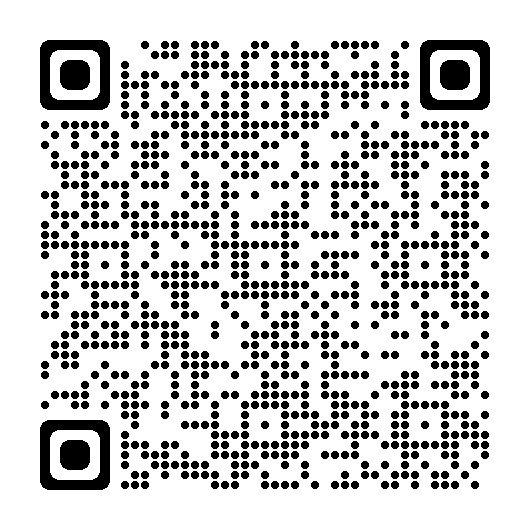
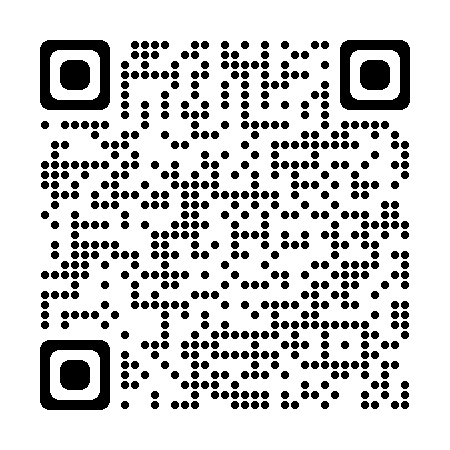
added qrcode.

diff --git a/frontend/header-style.css b/frontend/header-style.css
@@ -69,7 +69,7 @@
 
 /* Update header text based on sorting property */
 vaadin-grid-sorter {
-    font-size: 30px;
+    font-size: 40px;
 }
 
 vaadin-grid-sorter[direction = "asc"] {

diff --git a/frontend/vaadin-grid.css b/frontend/vaadin-grid.css
@@ -14,7 +14,7 @@
 [part~="cell"] {
     background-color: var(--one);
     color: var(--five);
-    font-size: x-large;
+    font-size: xx-large;
 }
 
 [part~="header-cell"] {

diff --git a/src/main/java/com/daniel/data_mapping/HomeView.java b/src/main/java/com/daniel/data_mapping/HomeView.java
@@ -52,9 +52,9 @@ public class HomeView extends FlexLayout {
 
     String getTabInfo(String title){
         switch (title){
-            case "Topic": return "Relationship between Starting salary of College Majors vs Unemployment rate of College Majors.";
-            case "Hypothesis": return "The higher the starting salary of a college major is, the higher the unemployment. ";
-            case "Poll": return "<img class=\"qrCode\" src=\"https://raw.githubusercontent.com/kingDaniel2004/12th_MapDataAnalysis/bafb0400b2ba939ca45f4dc476577e26373a3ea9/res/code.png\" alt=\"QRCode\">";
+            case "Topic": return "Starting Salary of College Majors vs Unemployment Rate of College Majors.";
+            case "Hypothesis": return "The higher the starting salary of a college major is, the higher the unemployment rate.";
+            case "Poll": return "<img class=\"qrCode\" src=\"https://github.com/kingDaniel2004/12th_MapDataAnalysis/blob/e1980c106e81a0161c2236b65b22417467e43d69/res/code.png\" alt=\"QRCode\">";
             case "Result": return "I used linear regression to analyze my data sets (x is salary and y is unemployment rate). <br> Visualizing the data shows that there is hardly any relationship between starting salary and the unemployment of a college major as the data plots are all over the graphs. ";
             case "Conclusion": return "My hypothesis was proven to be incorrect based on the data analysis outcomes. Therefore, I can conclude that there is no relationship between the starting salary of a major vs its unemployment.  I could have gotten data from the same year in order to find the most accurate conclusion. There are many factors that play a role in the unemployment of a major, for example, the type of college the graduate attended or the location.";
             case "Citation": return
